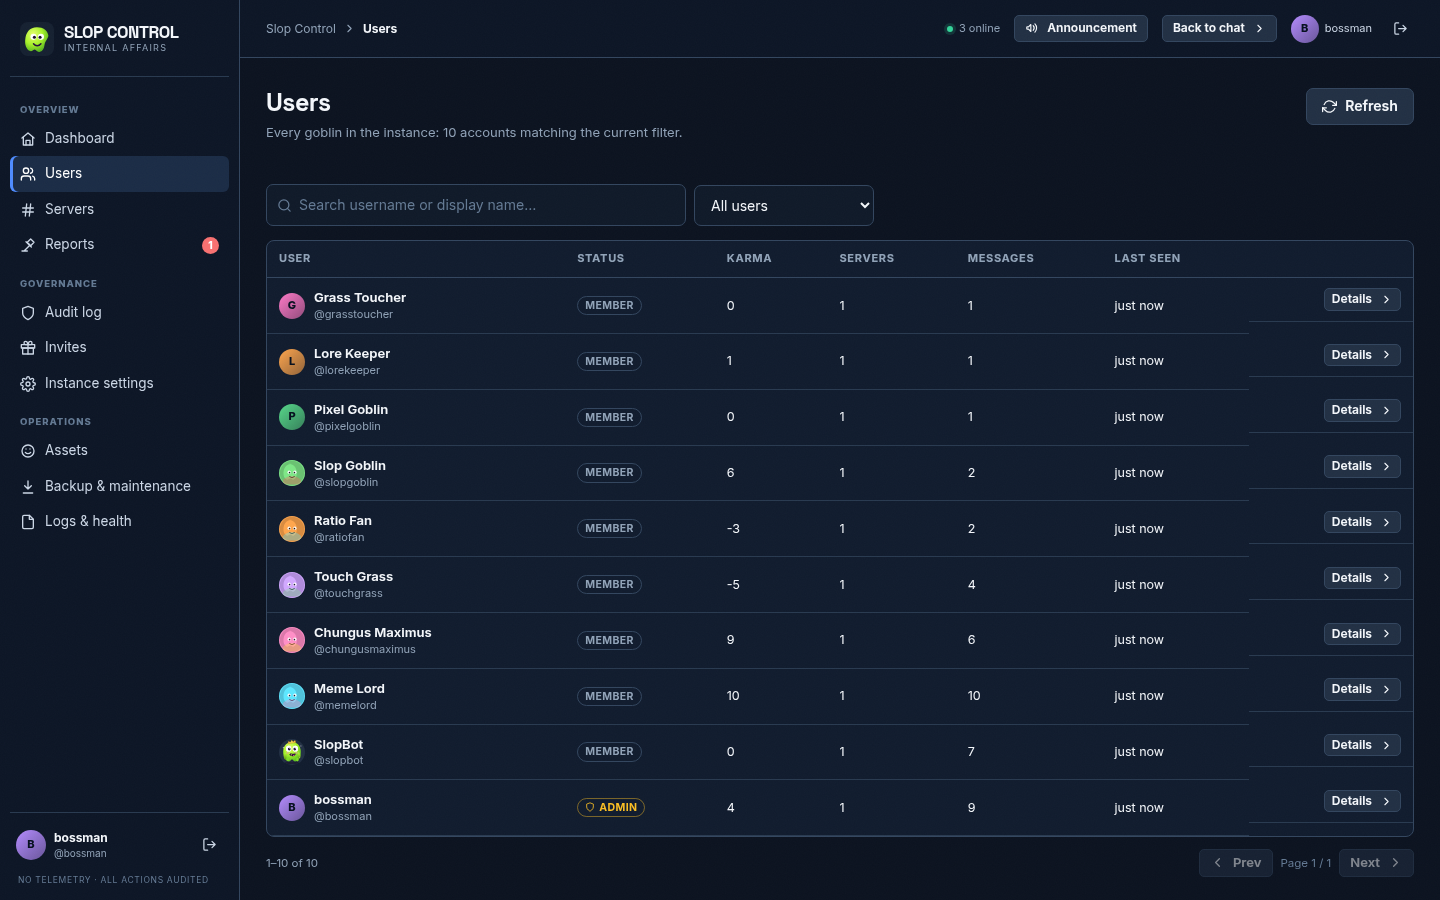
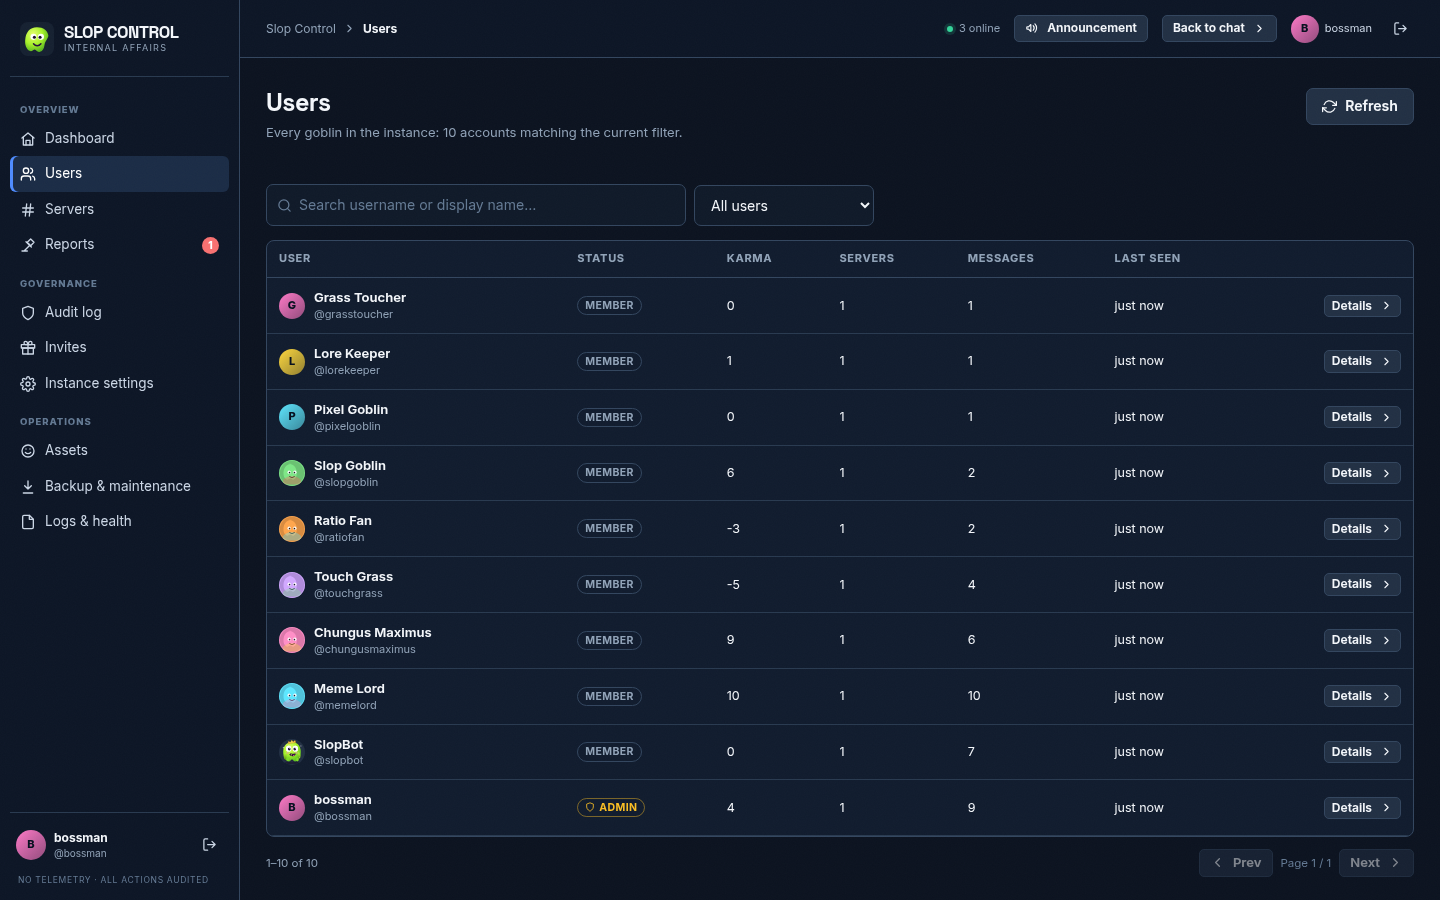
fix(admin): align user table action cells with rows
The Actions cell used display:flex, which removed it from table-cell layout.
Its background and bottom border ended short, and the Details button sat
above the row's vertical center. Keep it a table cell, right-align the
action buttons, and let vertical-align center them.

diff --git a/src/client/styles/components.css b/src/client/styles/components.css
@@ -147,7 +147,8 @@ input[type='range'] { accent-color: var(--accent); }
 .table th { text-align: left; padding: 10px 12px; color: var(--muted); font-size: 11px; text-transform: uppercase; letter-spacing: .06em; border-bottom: 1px solid var(--border); font-weight: 750; white-space: nowrap; }
 .table td { padding: 10px 12px; border-bottom: 1px solid var(--border-soft); vertical-align: middle; }
 .table tr:hover td { background: var(--bg-raised); }
-.table .actions { display: flex; gap: 4px; justify-content: flex-end; }
+.table .actions { text-align: right; white-space: nowrap; }
+.table .actions > * + * { margin-left: 4px; }
 .pagination { display: flex; align-items: center; gap: 8px; justify-content: flex-end; padding: 14px 0; }
 
 /* ---- Utility mini classes ---- */
